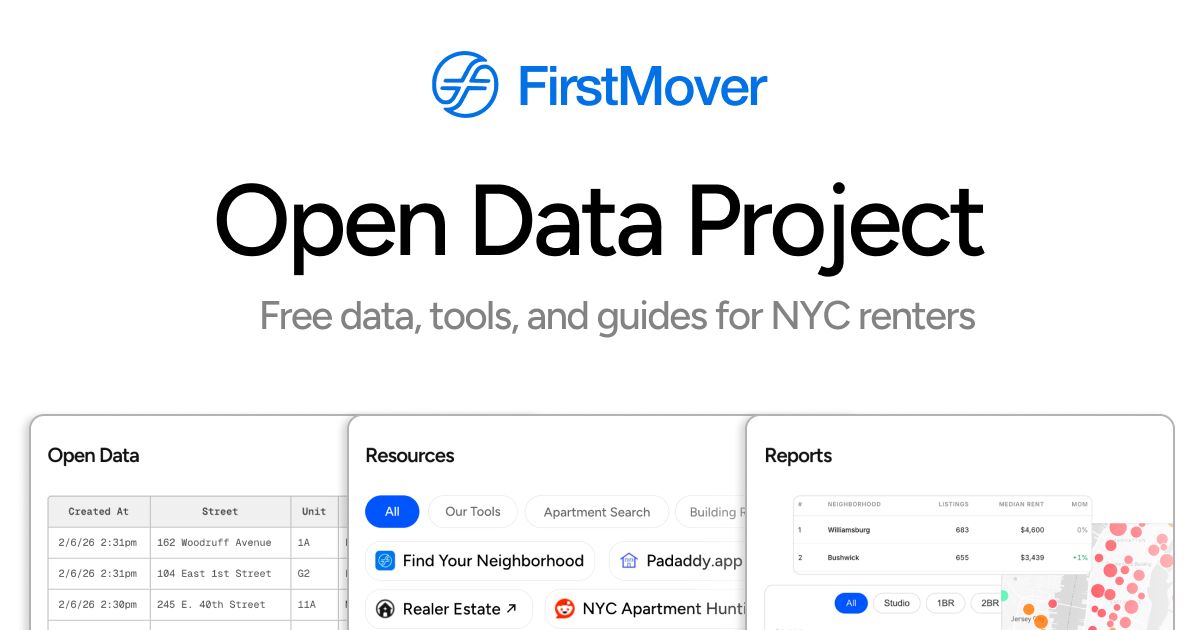
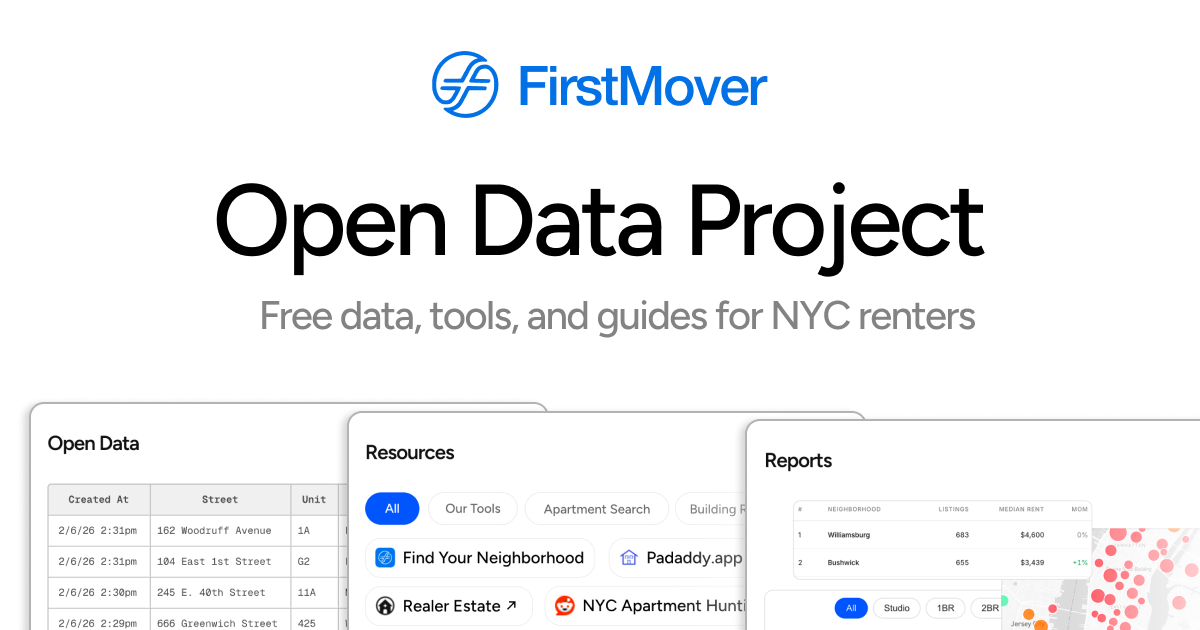
Remove blog posts, update OG image, simplify navigation, adjust typography
- Delete three blog post files: biggest-rent-drops-january-2026.mdx, january-2026-analysis.mdx, what-2500-gets-you.mdx
- Replace OG image with new version
- Remove Newsletter and About links from navigation
- Add Subscribe button to blog and reports index pages
- Update blog post footer CTA to focus on newsletter subscription instead of app download
- Increase line-height in report narrative from 1.7 to 1.8
- Increase paragraph

diff --git a/src/components/FixedNavbar.tsx b/src/components/FixedNavbar.tsx
@@ -33,12 +33,6 @@ export function FixedNavbar() {
             <Link href="/resources" className="nav-link">
               Resources
             </Link>
-            <Link href="/newsletter" className="nav-link">
-              Newsletter
-            </Link>
-            <Link href="/about" className="nav-link">
-              About
-            </Link>
             <a href="https://github.com/benfwalla/firstmover-open-data-project" target="_blank" rel="noopener noreferrer" className="nav-github">
               <GitHubIcon />
             </a>
@@ -71,12 +65,6 @@ export function FixedNavbar() {
           </Link>
           <Link href="/resources" className="nav-mobile-link" onClick={() => setIsMenuOpen(false)}>
             Resources
-          </Link>
-          <Link href="/newsletter" className="nav-mobile-link" onClick={() => setIsMenuOpen(false)}>
-            Newsletter
-          </Link>
-          <Link href="/about" className="nav-mobile-link" onClick={() => setIsMenuOpen(false)}>
-            About
           </Link>
           <a href="https://github.com/benfwalla/firstmover-open-data-project" target="_blank" rel="noopener noreferrer" className="nav-mobile-link" style={{ display: 'flex', alignItems: 'center', gap: '8px' }} onClick={() => setIsMenuOpen(false)}>
             <svg width="18" height="18" viewBox="0 0 24 24" fill="currentColor"><path d="M12 0C5.37 0 0 5.37 0 12c0 5.31 3.435 9.795 8.205 11.385.6.105.825-.255.825-.57 0-.285-.015-1.23-.015-2.235-3.015.555-3.795-.735-4.035-1.41-.135-.345-.72-1.41-1.23-1.695-.42-.225-1.02-.78-.015-.795.945-.015 1.62.87 1.845 1.23 1.08 1.815 2.805 1.305 3.495.99.105-.78.42-1.305.765-1.605-2.67-.3-5.46-1.335-5.46-5.925 0-1.305.465-2.385 1.23-3.225-.12-.3-.54-1.53.12-3.18 0 0 1.005-.315 3.3 1.23.96-.27 1.98-.405 3-.405s2.04.135 3 .405c2.295-1.56 3.3-1.23 3.3-1.23.66 1.65.24 2.88.12 3.18.765.84 1.23 1.905 1.23 3.225 0 4.605-2.805 5.625-5.475 5.925.435.375.81 1.095.81 2.22 0 1.605-.015 2.895-.015 3.3 0 .315.225.69.825.57A12.02 12.02 0 0024 12c0-6.63-5.37-12-12-12z"/></svg>

diff --git a/src/app/blog/[slug]/page.tsx b/src/app/blog/[slug]/page.tsx
@@ -129,24 +129,18 @@ export default async function BlogPostPage({ params }: BlogPostPageProps) {
           marginTop: '48px',
           textAlign: 'center'
         }}>
-          <p style={{ margin: '0 0 16px 0', fontSize: '16px', fontWeight: '600' }}>
-            Want more NYC rental insights?
+          <p style={{ margin: '0 0 4px 0', fontSize: '16px', fontWeight: 600 }}>
+            Get new posts in your inbox
           </p>
-          <Link
-            href="/blog"
-            className="cta-button-secondary"
-            style={{ marginRight: '16px' }}
-          >
-            ← More Blog Posts
+          <p style={{ margin: '0 0 16px 0', fontSize: '14px', color: '#666' }}>
+            Monthly updates on NYC rent trends and neighborhood data.
+          </p>
+          <Link href="/newsletter" className="cta-button" style={{ fontSize: '14px', padding: '10px 24px', background: 'var(--text)', marginRight: '12px' }}>
+            Subscribe
           </Link>
-          <a
-            href="https://apps.apple.com/us/app/firstmover/id6740444528"
-            target="_blank"
-            rel="noopener noreferrer"
-            className="cta-button-primary"
-          >
-            Download FirstMover
-          </a>
+          <Link href="/blog" className="cta-button-secondary" style={{ fontSize: '14px', padding: '10px 24px' }}>
+            More Posts
+          </Link>
         </div>
       </div>
     </div>

diff --git a/src/app/reports/page.tsx b/src/app/reports/page.tsx
@@ -14,13 +14,18 @@ export default function ReportsPage() {
   const reports = getPostsByType('report');
   return (
     <div className="publication-section narrow">
-      <div className="section-header">
-        <h1 className="section-title" style={{ fontSize: '40px' }}>Reports</h1>
-        <p className="section-subtitle">
-          Monthly rent reports breaking down what&apos;s happening across NYC.
-        </p>
+      <div className="section-header" style={{ display: 'flex', alignItems: 'baseline', justifyContent: 'space-between' }}>
+        <div>
+          <h1 className="section-title" style={{ fontSize: '40px' }}>Reports</h1>
+          <p className="section-subtitle">
+            Monthly rent reports breaking down what&apos;s happening across NYC.
+          </p>
+        </div>
+        <Link href="/newsletter" className="cta-button" style={{ fontSize: '13px', padding: '6px 16px', background: 'var(--text)', whiteSpace: 'nowrap' }}>
+          Subscribe
+        </Link>
       </div>
-      
+
       <div className="blog-posts-list">
         {reports.map(post => (
           <Link key={post.slug} href={`/reports/${post.slug}`} className="blog-post-card">

diff --git a/src/app/blog/page.tsx b/src/app/blog/page.tsx
@@ -14,11 +14,16 @@ export default function BlogIndexPage() {
 
   return (
     <div className="publication-section narrow">
-      <div className="section-header">
-        <h1 className="section-title" style={{ fontSize: '40px' }}>Blog</h1>
-        <p className="section-subtitle">
-          Data-driven insights on NYC&apos;s rental market.
-        </p>
+      <div className="section-header" style={{ display: 'flex', alignItems: 'baseline', justifyContent: 'space-between' }}>
+        <div>
+          <h1 className="section-title" style={{ fontSize: '40px' }}>Blog</h1>
+          <p className="section-subtitle">
+            Data-driven insights on NYC&apos;s rental market.
+          </p>
+        </div>
+        <Link href="/newsletter" className="cta-button" style={{ fontSize: '13px', padding: '6px 16px', background: 'var(--text)', whiteSpace: 'nowrap' }}>
+          Subscribe
+        </Link>
       </div>
 
       <div className="blog-posts-list">

diff --git a/src/app/globals.css b/src/app/globals.css
@@ -445,7 +445,7 @@ a:hover {
   max-width: 700px;
   margin: 0 auto;
   font-size: 18px;
-  line-height: 1.7;
+  line-height: 1.8;
 }
 
 .report-narrative h2 {
@@ -454,7 +454,7 @@ a:hover {
 }
 
 .report-narrative p {
-  margin-bottom: 24px;
+  margin-bottom: 28px;
 }
 
 .report-narrative table {
@@ -1094,7 +1094,7 @@ a:hover {
 }
 
 .publication-section.narrow {
-  max-width: 680px;
+  max-width: 728px;
 }
 
 .section-header {
